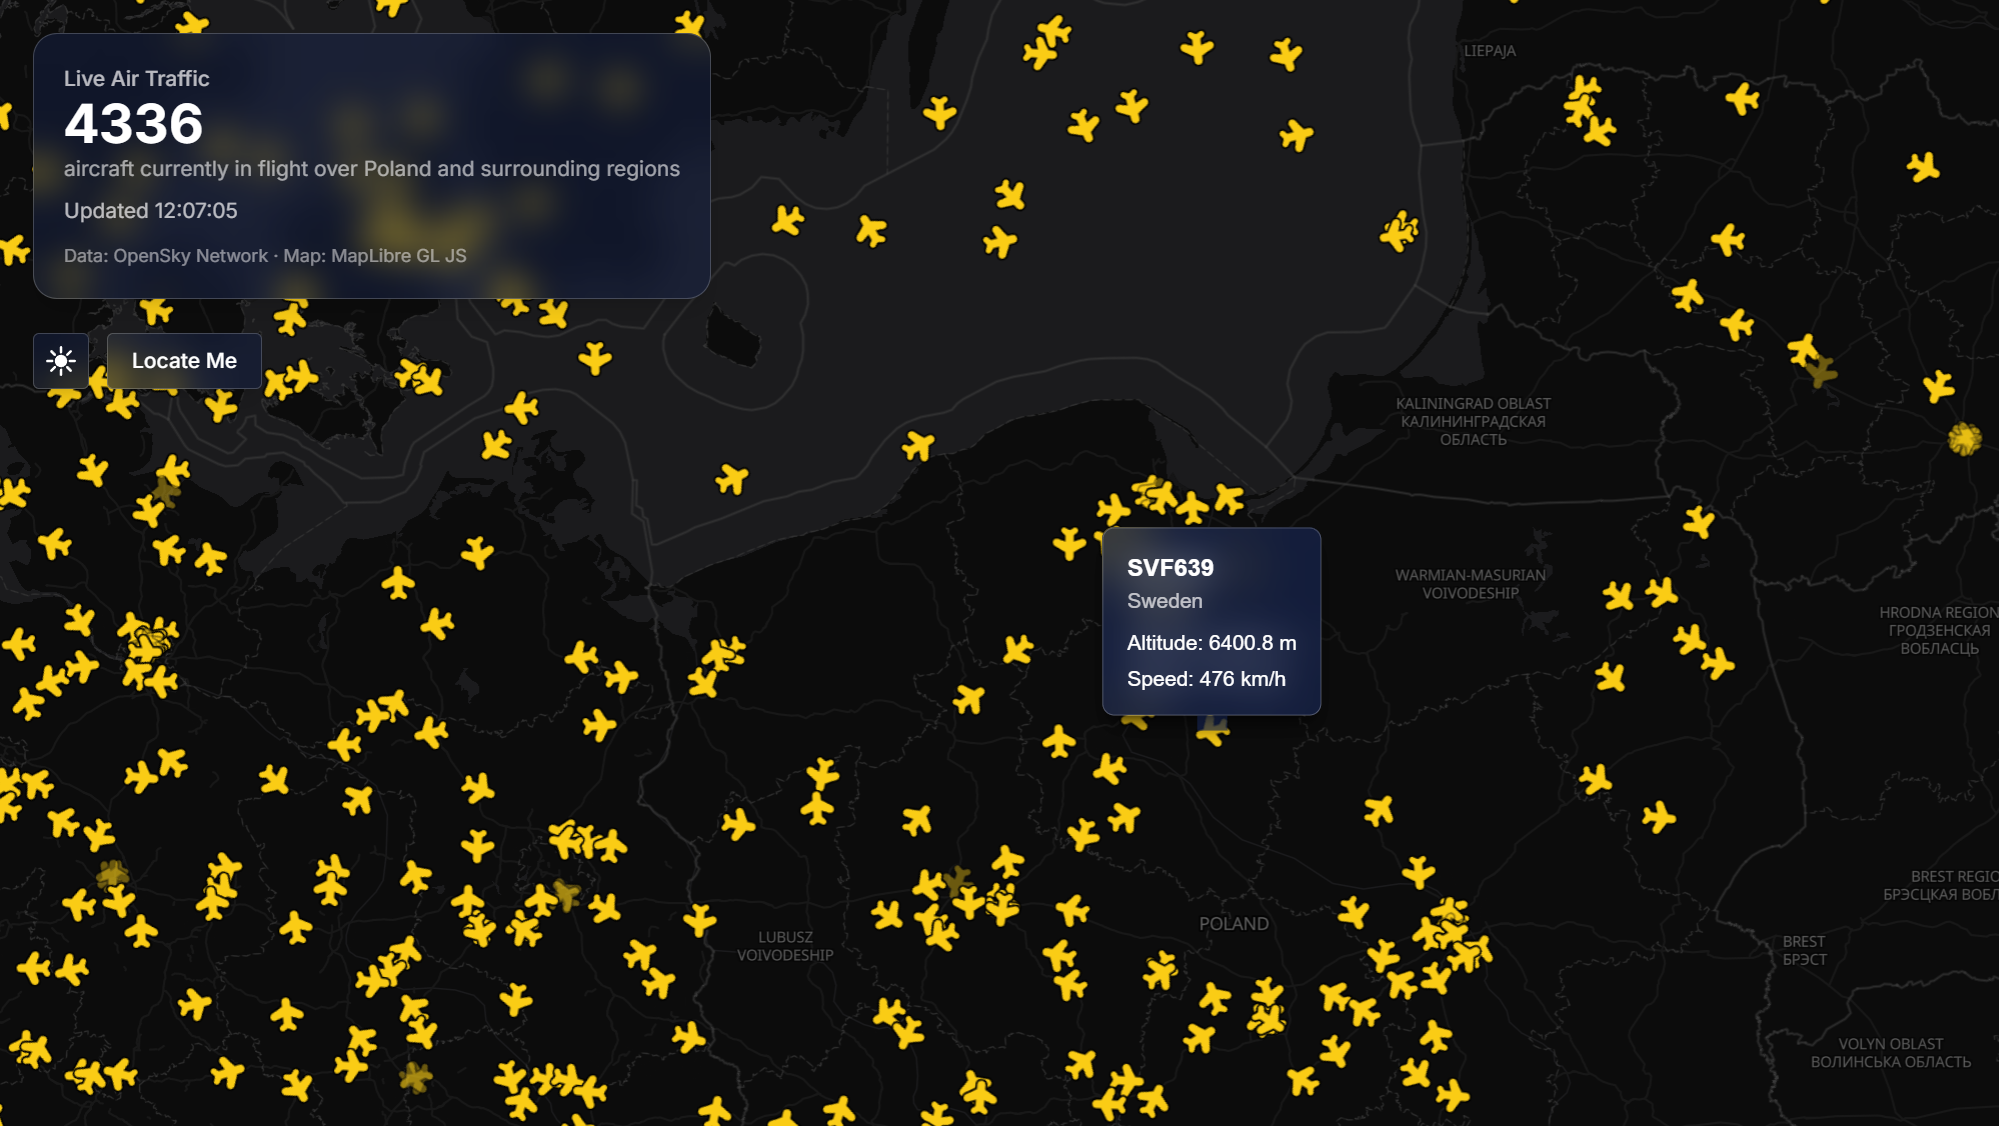
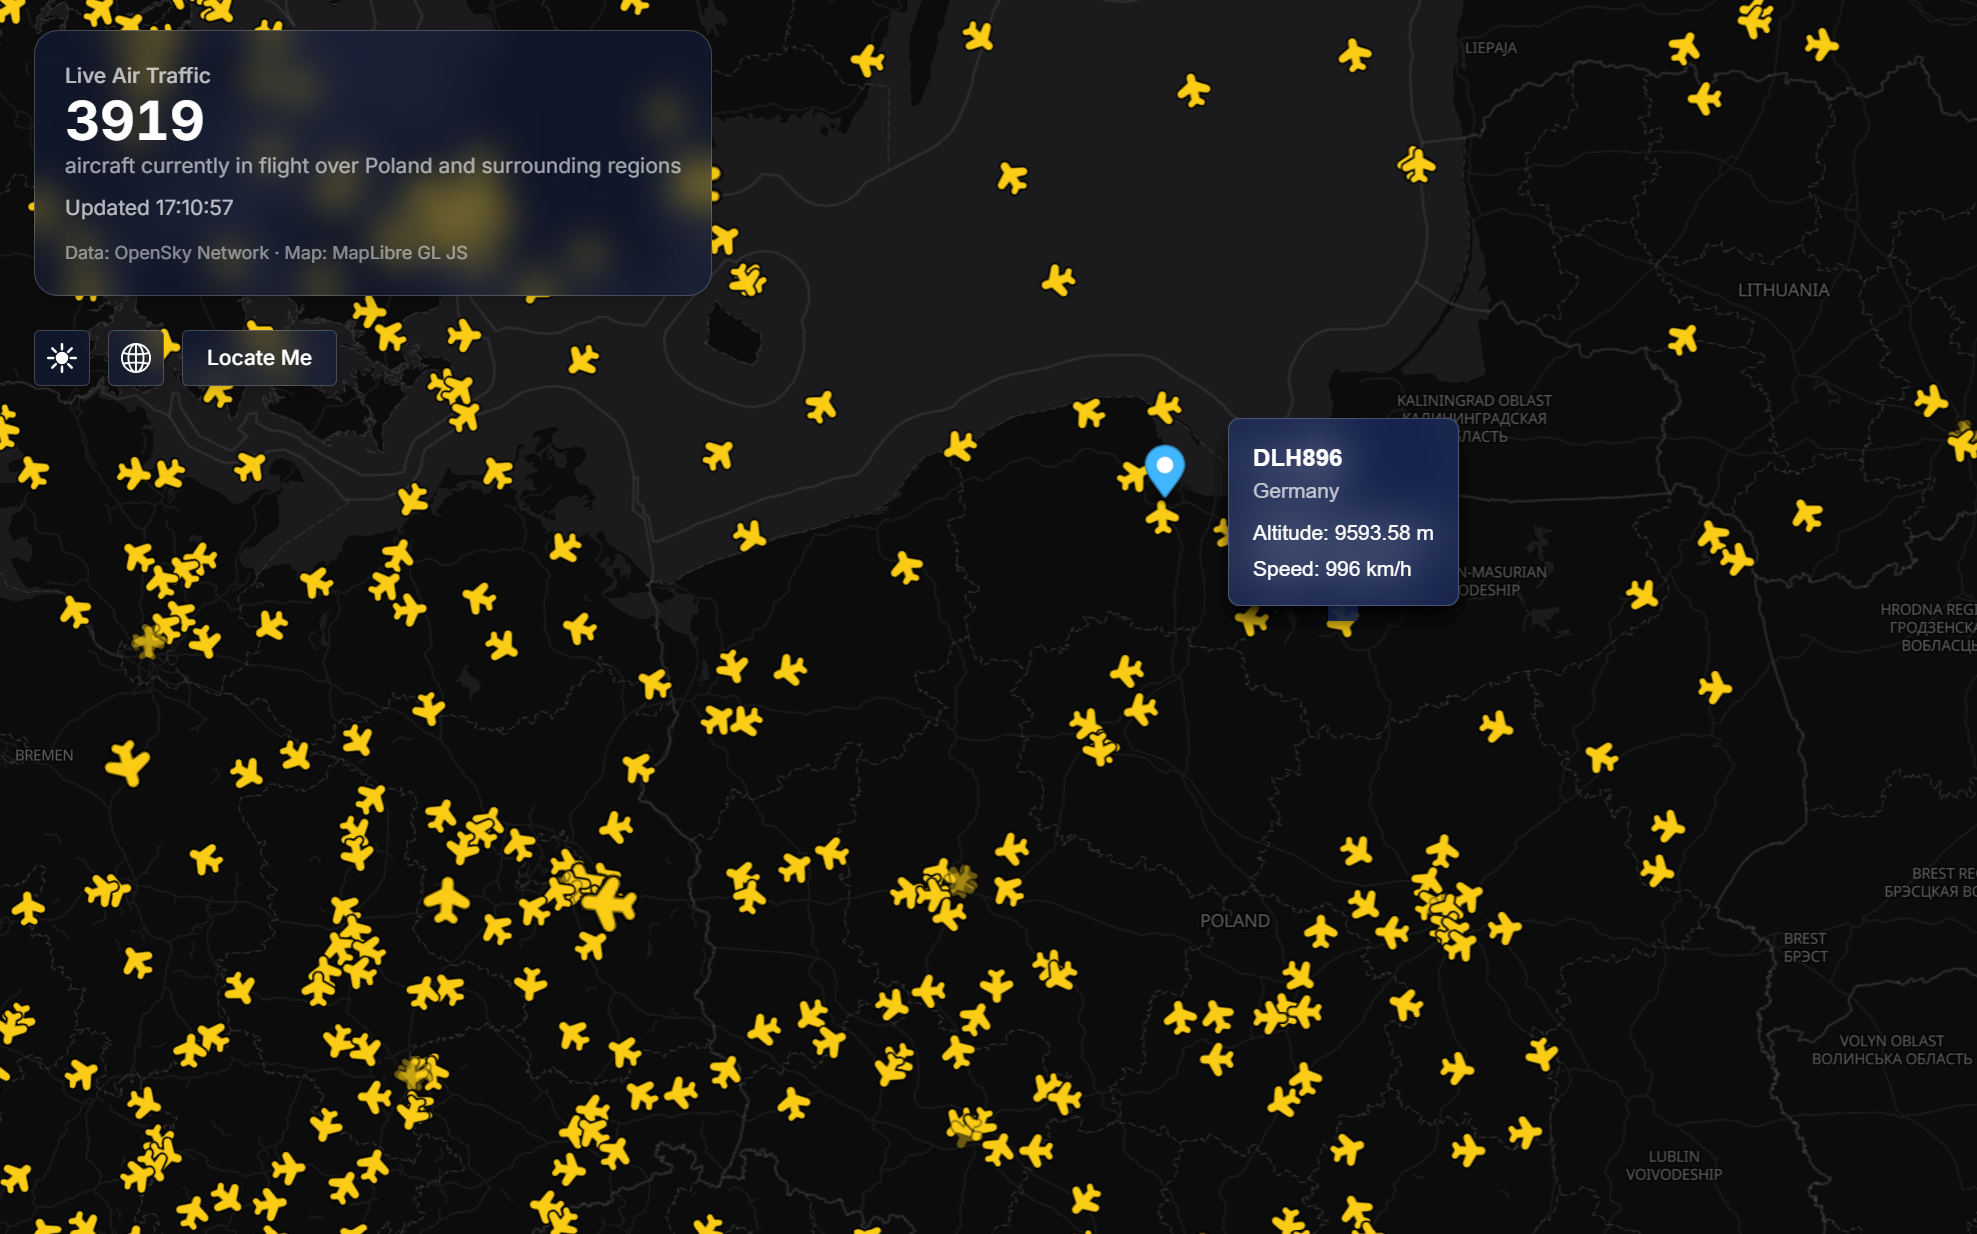
docs: update readme file

diff --git a/README.md b/README.md
@@ -2,9 +2,9 @@
 
 Live map of air traffic over Europe. Fetches real-time aircraft positions from the OpenSky Network and renders them on a MapLibre GL JS map.
 
-| Light mode | Dark mode |
-| --- | --- |
-| ![Light mode map view](src/assets/light_mode.png) | ![Dark mode map view](src/assets/dark_mode.png) |
+| Light mode | Dark mode | Globe mode |
+| --- | --- | --- |
+| ![Light mode map view](src/assets/light_mode.png) | ![Dark mode map view](src/assets/dark_mode.png) | ![Globe mode map view](src/assets/globe_mode.png) |
 
 ## Setup
 
